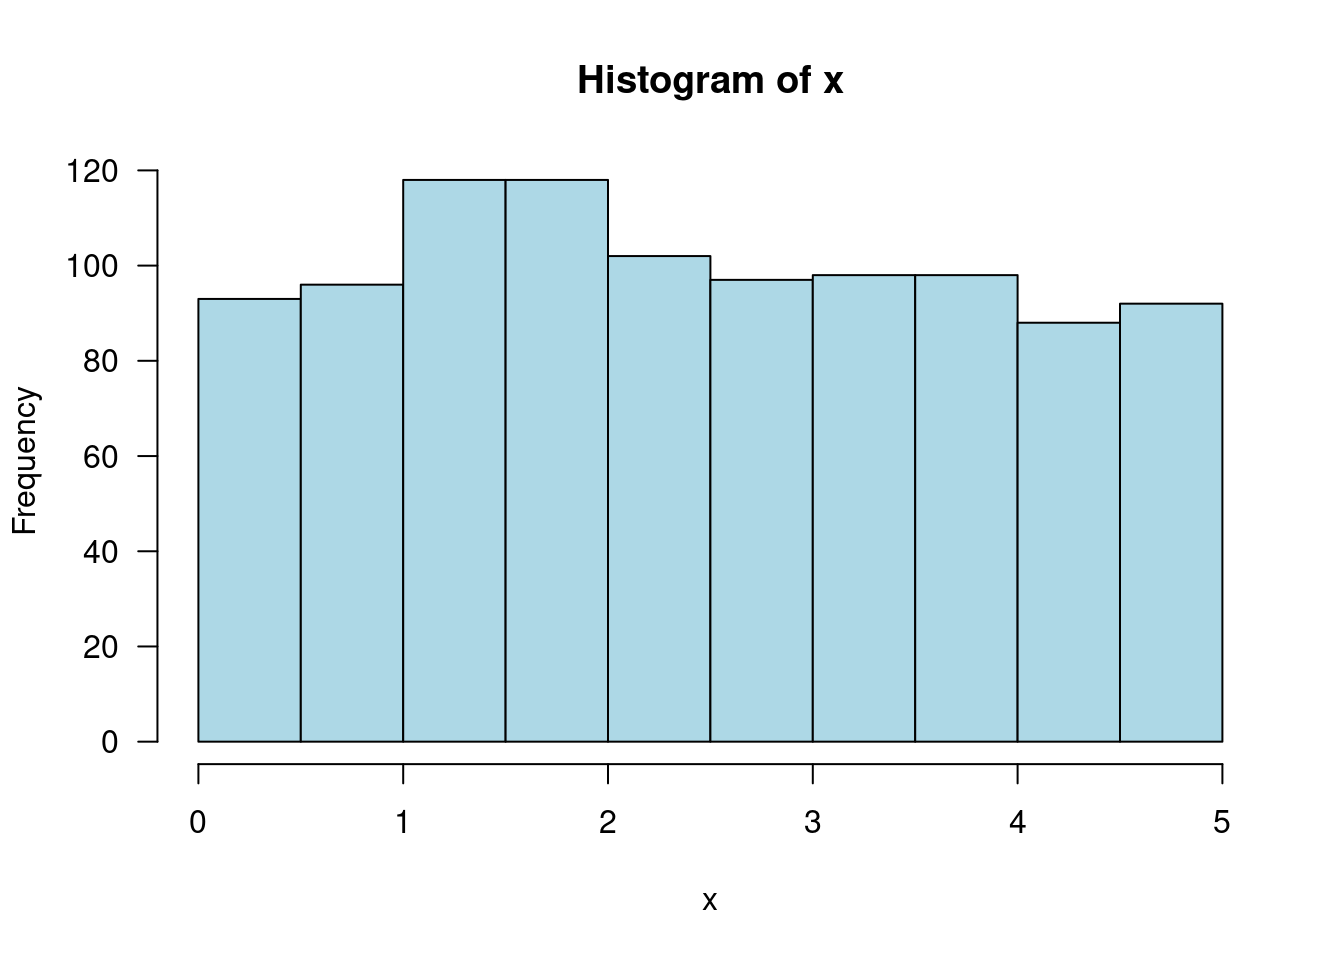
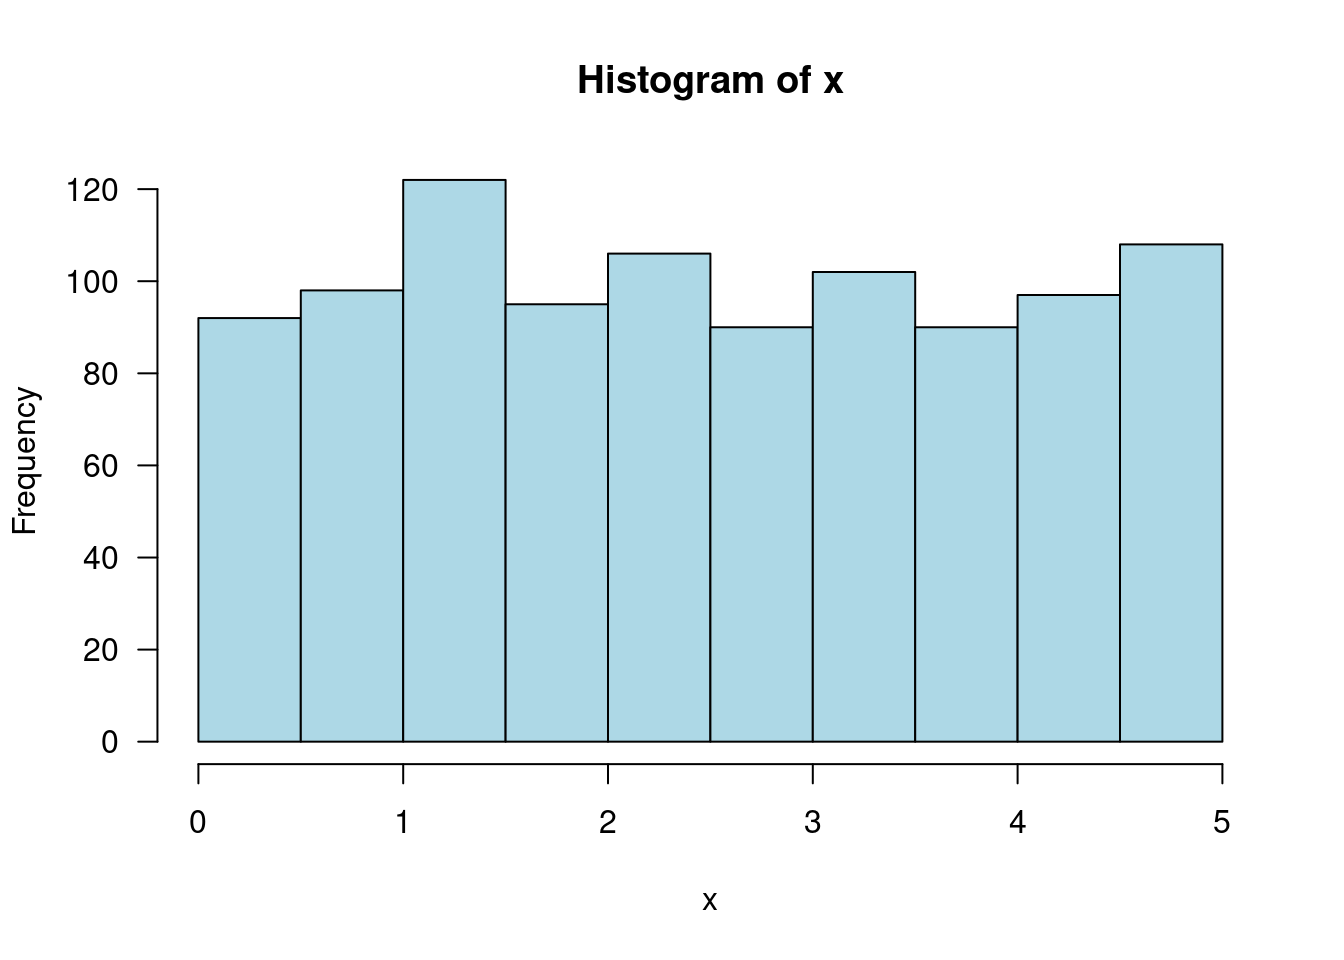
Deploying to gh-pages from @ jtr13/1201@4026bb0e2b96937b06d2959cae0a8684a7b1d6d1 🚀

diff --git a/ch.-4-continuous-random-variables-and-probability-distributions.html b/ch.-4-continuous-random-variables-and-probability-distributions.html
@@ -81,12 +81,12 @@
 <p><span class="math inline">\(f(x) = .2\)</span> for <span class="math inline">\(0 \leq x \leq 5\)</span>, 0 otherwise.</p>
 <div class="sourceCode" id="cb157"><pre class="downlit sourceCode r">
 <code class="sourceCode R"><span><span class="fu"><a href="https://rdrr.io/r/stats/Uniform.html">runif</a></span><span class="op">(</span>n <span class="op">=</span> <span class="fl">1</span>, min <span class="op">=</span> <span class="fl">0</span>, max <span class="op">=</span> <span class="fl">5</span><span class="op">)</span></span></code></pre></div>
-<pre><code>## [1] 2.708783</code></pre>
+<pre><code>## [1] 2.661402</code></pre>
 <p>Take the average of 1000 picks:</p>
 <div class="sourceCode" id="cb159"><pre class="downlit sourceCode r">
 <code class="sourceCode R"><span><span class="va">x</span> <span class="op">&lt;-</span> <span class="fu"><a href="https://rdrr.io/r/stats/Uniform.html">runif</a></span><span class="op">(</span>n <span class="op">=</span> <span class="fl">1000</span>, min <span class="op">=</span> <span class="fl">0</span>, max <span class="op">=</span> <span class="fl">5</span><span class="op">)</span></span>
 <span><span class="fu"><a href="https://rdrr.io/r/base/mean.html">mean</a></span><span class="op">(</span><span class="va">x</span><span class="op">)</span></span></code></pre></div>
-<pre><code>## [1] 2.436361</code></pre>
+<pre><code>## [1] 2.498091</code></pre>
 <p>Draw a histogram of the 1000 picks:</p>
 <div class="sourceCode" id="cb161"><pre class="downlit sourceCode r">
 <code class="sourceCode R"><span><span class="fu"><a href="https://rdrr.io/r/graphics/hist.html">hist</a></span><span class="op">(</span><span class="va">x</span>, las <span class="op">=</span> <span class="fl">1</span>, col <span class="op">=</span> <span class="st">"lightblue"</span><span class="op">)</span></span></code></pre></div>

diff --git a/ch.-1-descriptive-statistics.html b/ch.-1-descriptive-statistics.html
@@ -76,12 +76,12 @@
 <p><strong>Ex:</strong> To generate a sample of 6 numbers from the integers between 1 and 20:</p>
 <div class="sourceCode" id="cb25"><pre class="downlit sourceCode r">
 <code class="sourceCode R"><span><span class="fu"><a href="https://rdrr.io/r/base/sample.html">sample</a></span><span class="op">(</span>x <span class="op">=</span> <span class="fl">1</span><span class="op">:</span><span class="fl">20</span>, size  <span class="op">=</span> <span class="fl">6</span><span class="op">)</span></span></code></pre></div>
-<pre><code>## [1]  6 11  7  8 19 14</code></pre>
+<pre><code>## [1]  1  7  9  5  3 13</code></pre>
 <p>Note: this syntax assumes that there is no replacement (it won’t pick the same number twice).
 If you want to sample <em>with</em> replacement use the following:</p>
 <div class="sourceCode" id="cb27"><pre class="downlit sourceCode r">
 <code class="sourceCode R"><span><span class="fu"><a href="https://rdrr.io/r/base/sample.html">sample</a></span><span class="op">(</span>x <span class="op">=</span> <span class="fl">1</span><span class="op">:</span><span class="fl">20</span>, size <span class="op">=</span> <span class="fl">8</span>, replace <span class="op">=</span> <span class="cn">TRUE</span><span class="op">)</span></span></code></pre></div>
-<pre><code>## [1] 18 18 20  5  1 12 13  8</code></pre>
+<pre><code>## [1]  2 20 12  6  3 17  4  7</code></pre>
 </div>
 <div id="pictorial-and-tabular-methods-in-descriptive-statistics" class="section level2 unnumbered" number="">
 <h2>1.2 Pictorial and Tabular Methods in Descriptive Statistics<a class="anchor" aria-label="anchor" href="#pictorial-and-tabular-methods-in-descriptive-statistics"><i class="fas fa-link"></i></a>
